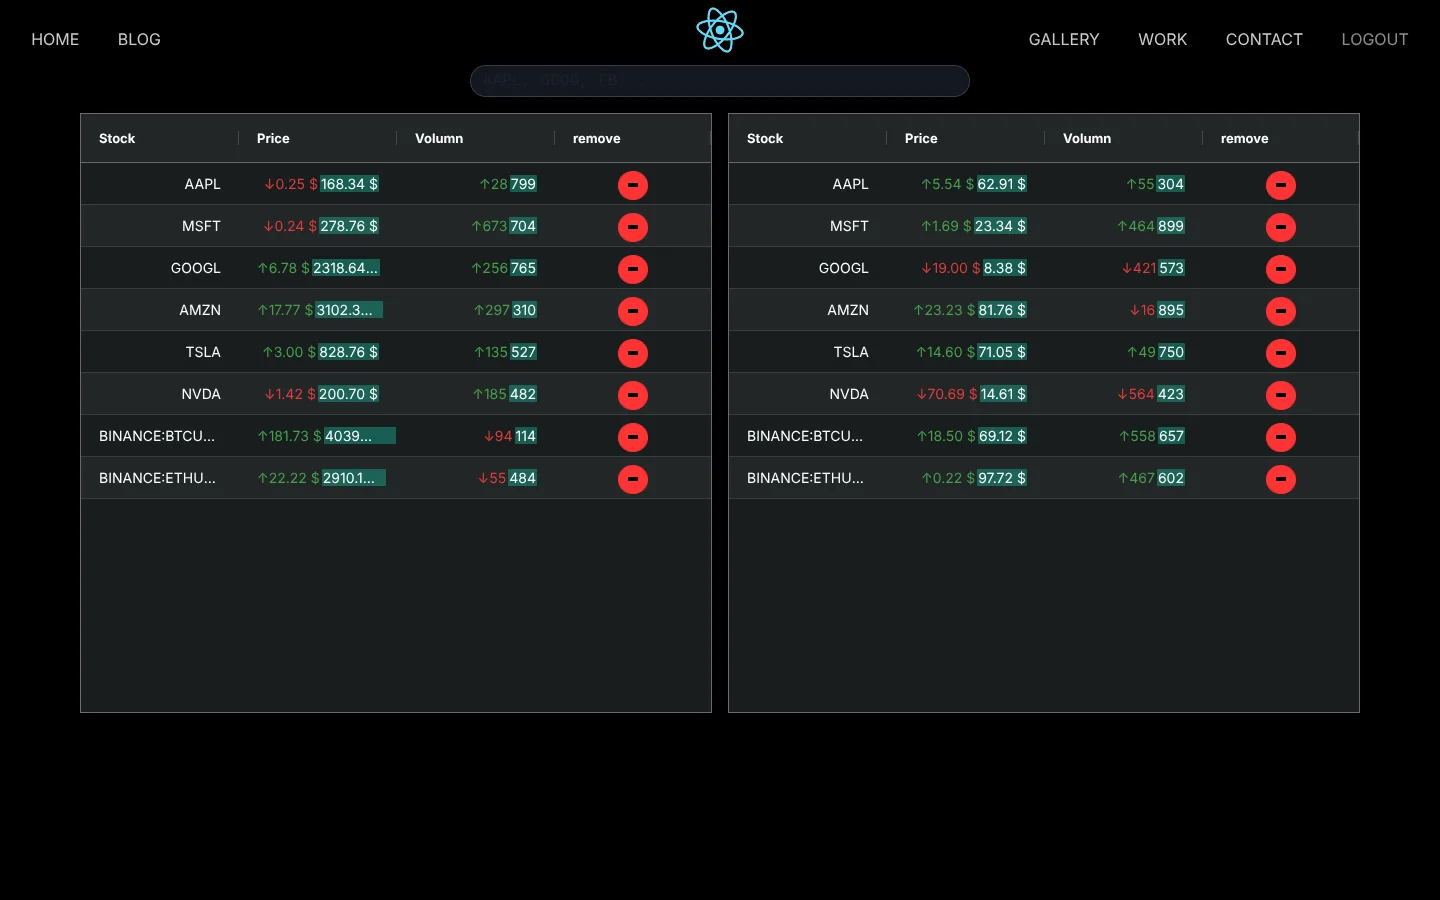
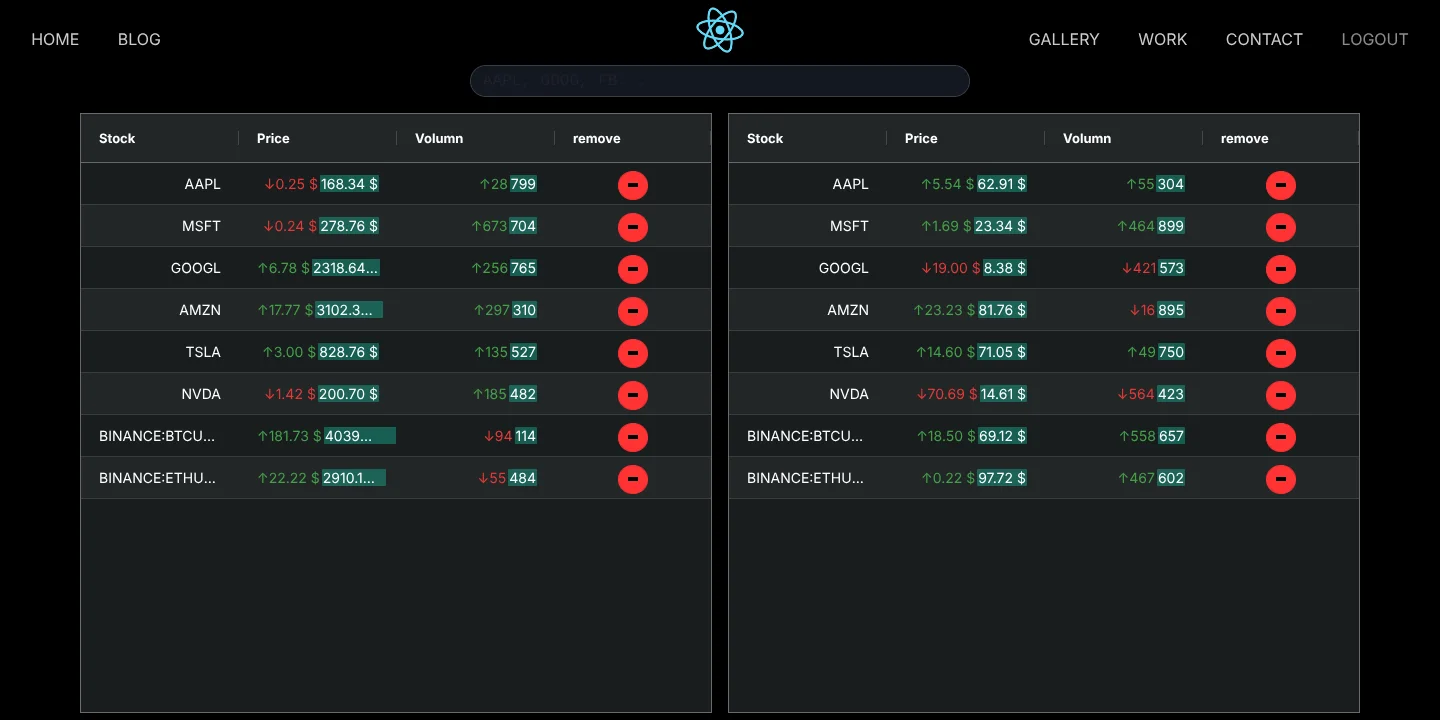
Trim empty space from CompassRT screenshots
Claude-Session: https://claude.ai/code/session_0192wPfa44nme3GE7YJkwCoC

diff --git a/src/data/imageDimensions.ts b/src/data/imageDimensions.ts
@@ -10,9 +10,9 @@ export const imageDimensions: Record<string, { w: number; h: number }> = {
   "/images/opportunity-agents_1.webp": { w: 1440, h: 900 },
   "/images/opportunity-agents_2.webp": { w: 1440, h: 900 },
   "/images/opportunity-agents_3.webp": { w: 1440, h: 900 },
-  "/images/compassrt_1.webp": { w: 1440, h: 900 },
-  "/images/compassrt_2.webp": { w: 1440, h: 900 },
-  "/images/compassrt_3.webp": { w: 1440, h: 900 },
+  "/images/compassrt_1.webp": { w: 1440, h: 720 },
+  "/images/compassrt_2.webp": { w: 1440, h: 720 },
+  "/images/compassrt_3.webp": { w: 1440, h: 720 },
   "/images/screen-to-answer_1.webp": { w: 1440, h: 900 },
   "/images/screen-to-answer_2.webp": { w: 1440, h: 900 },
   "/images/screen-to-answer_3.webp": { w: 1440, h: 900 },
